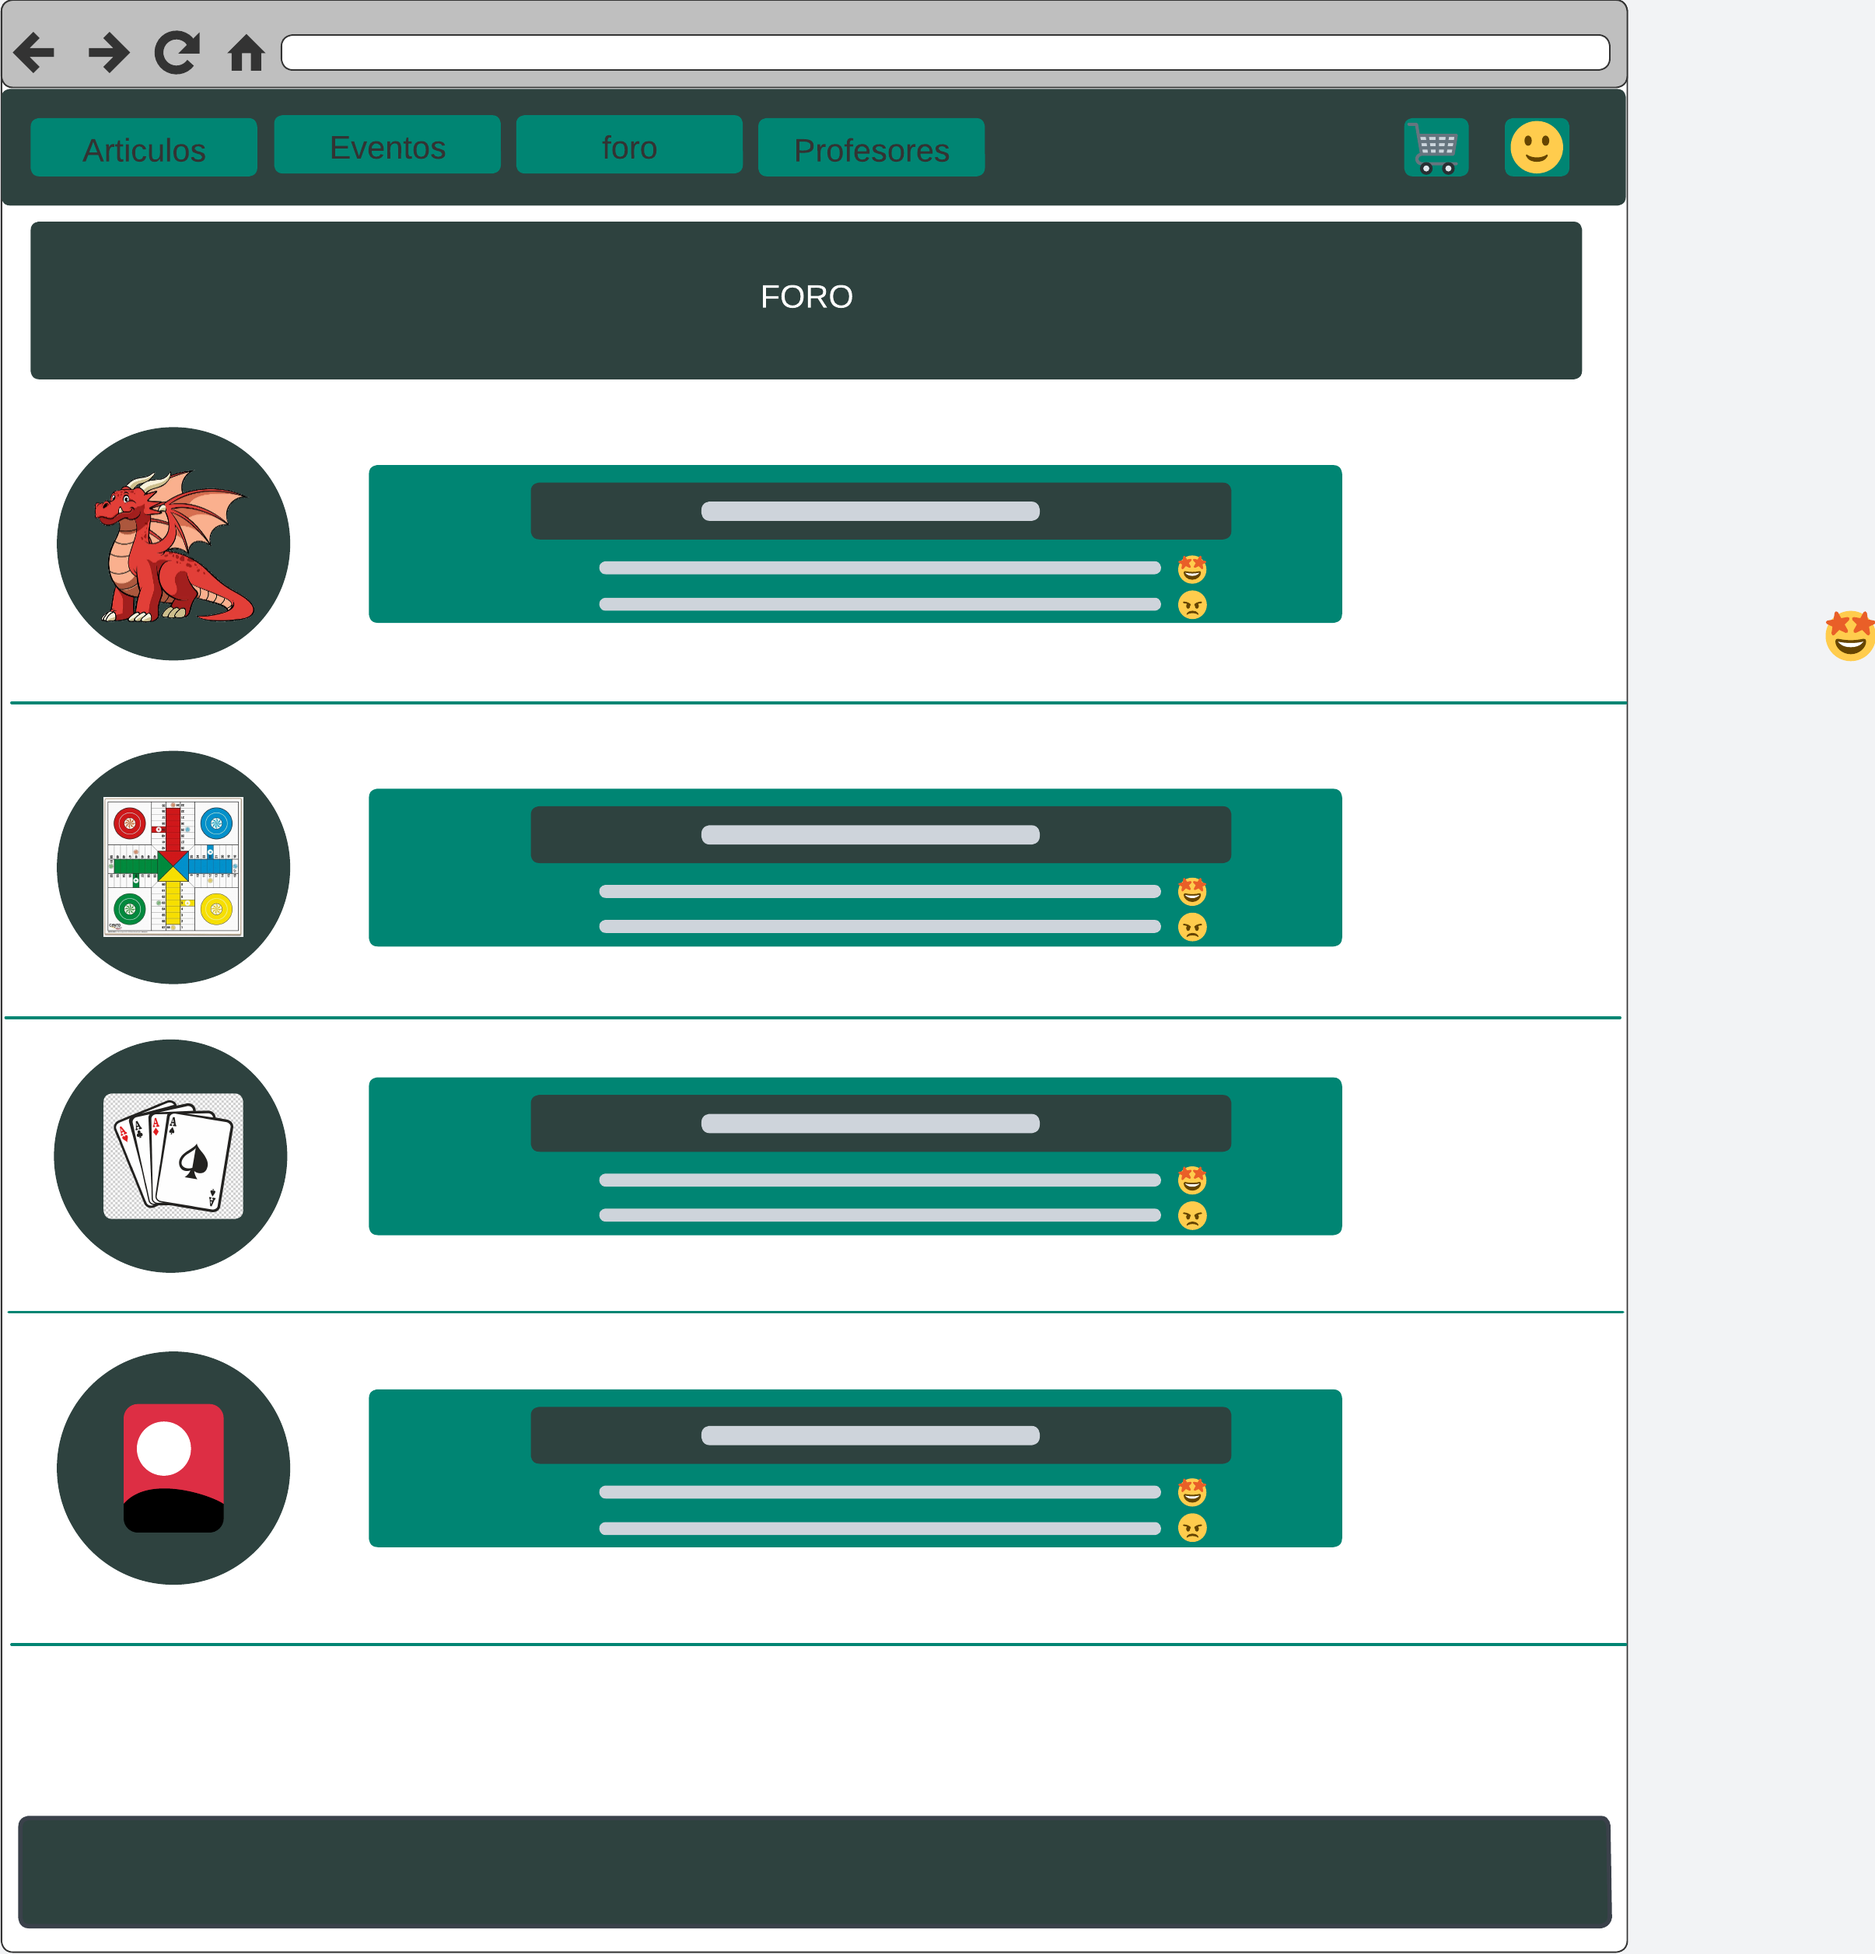
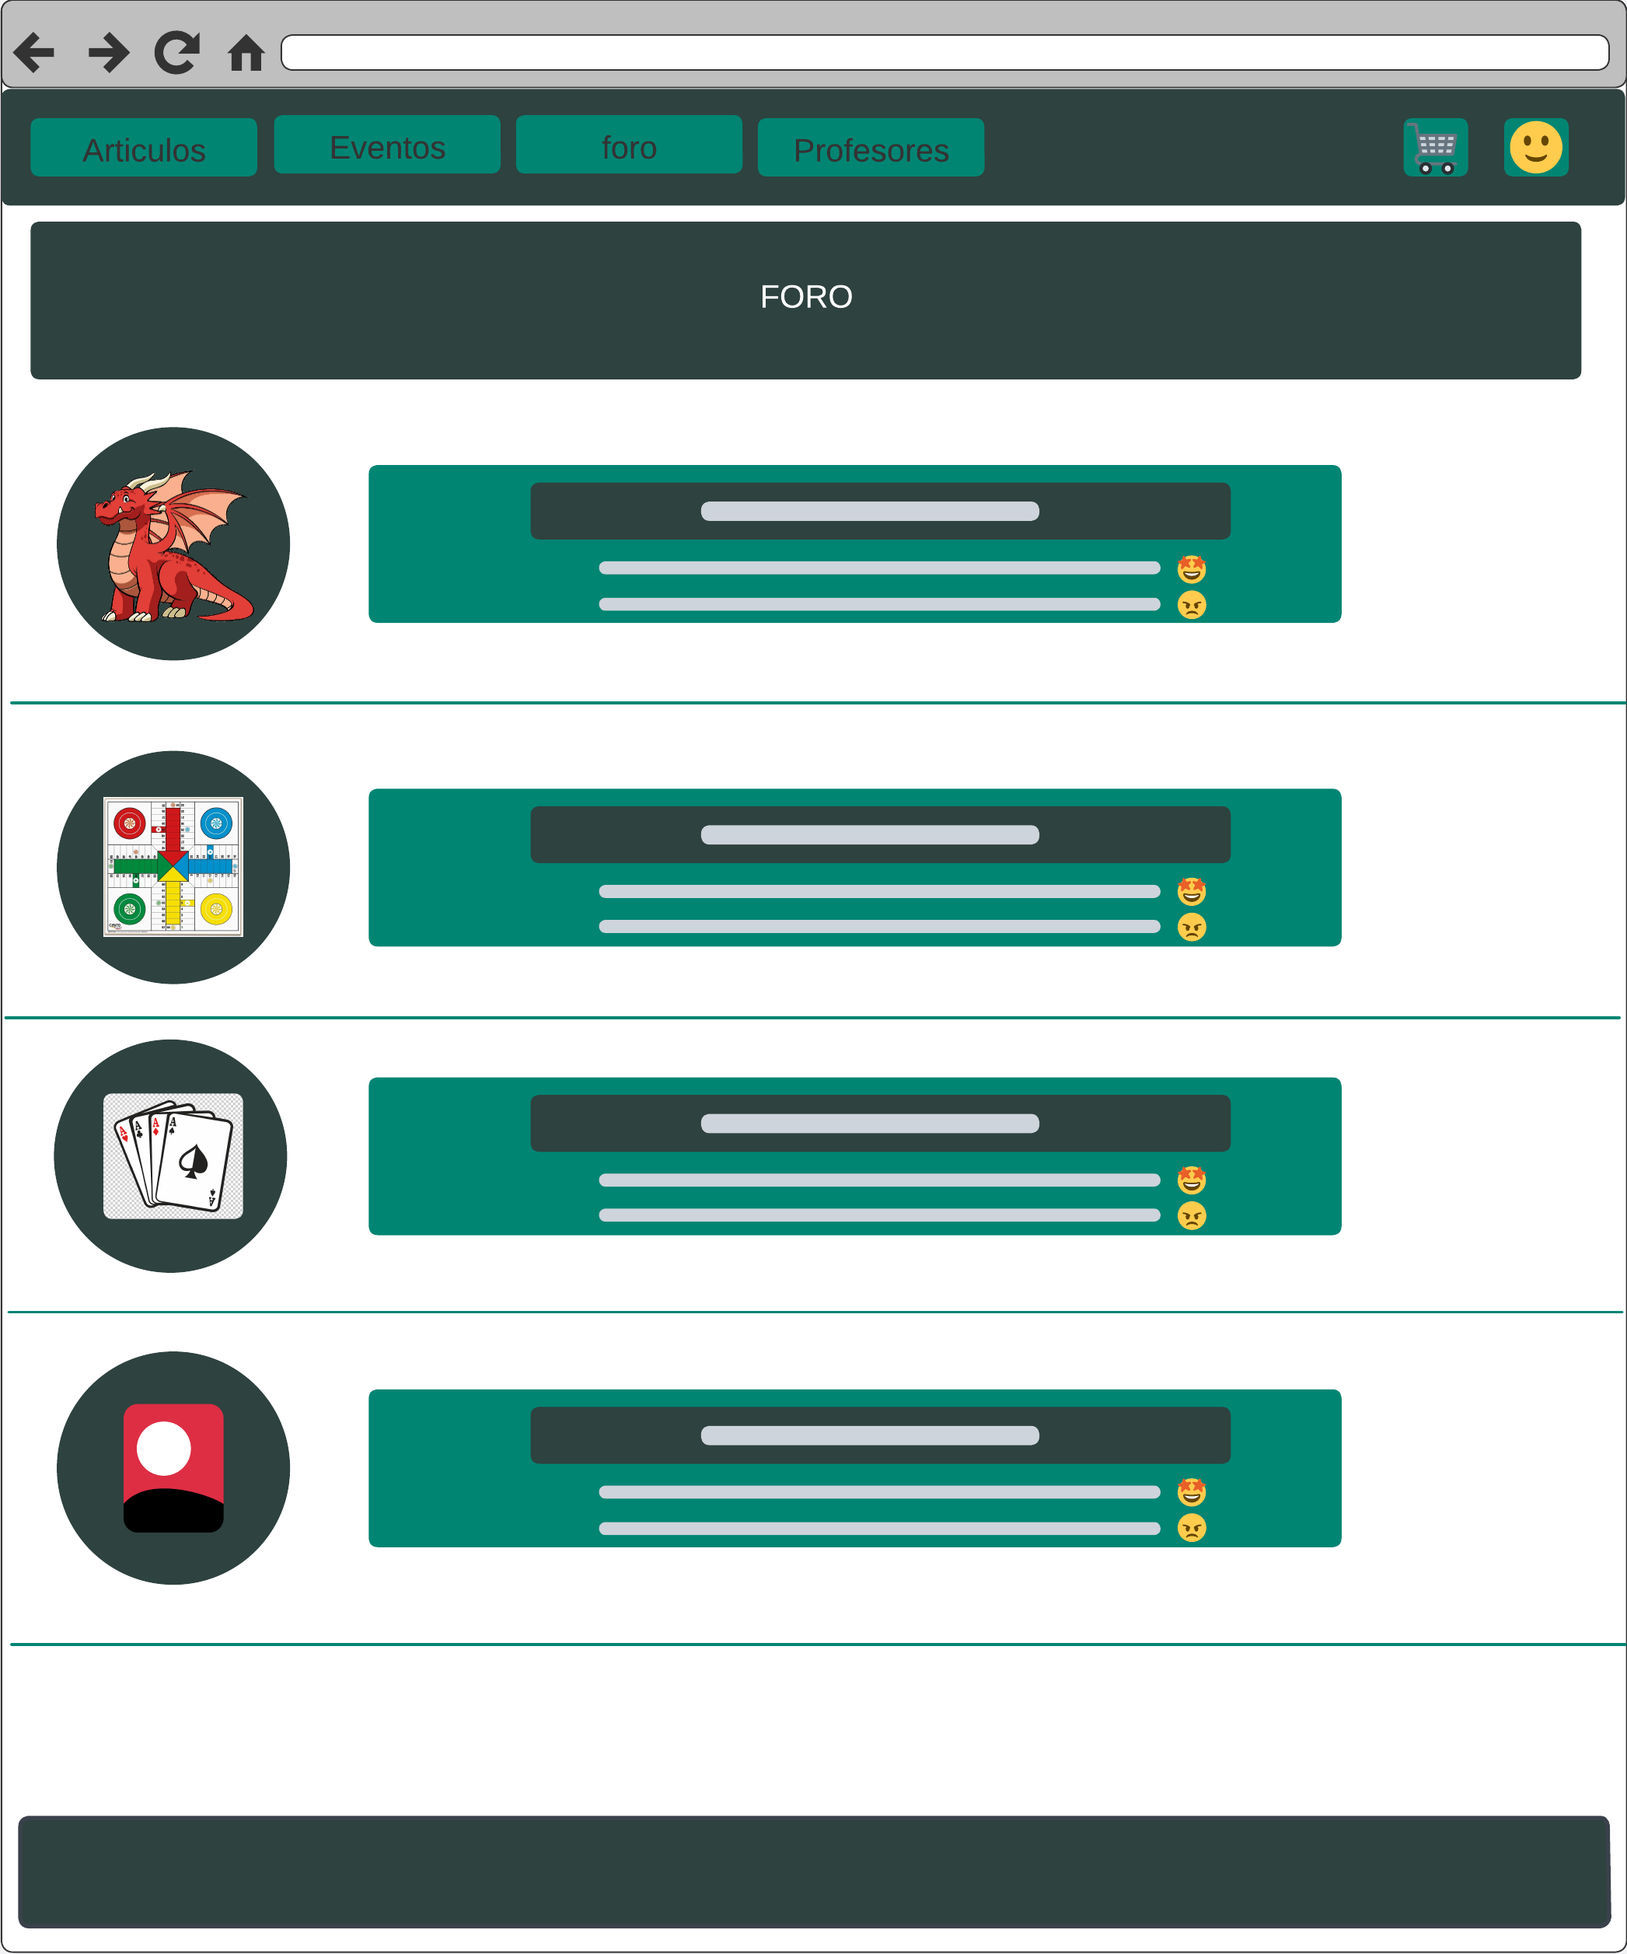
Recolocado y añadido titulos, erratas de bocetos e imagen foro incorrecta

diff --git a/bocetos.html b/bocetos.html
@@ -12,9 +12,10 @@
 </head>
 <body>
     <header>
+        <h1>MesaMaestra</h1>
         <nav>Navegación
             <ul>
-                <li><a href="index.html ">Página Principal</a></li>
+                <li><a href="index.html">Página Principal</a></li>
                 <li><a href="detalles.html">Detalles</a></li>
                 <li><a href="bocetos.html">Bocetos</a></li>
                 <li><a href="miembros.html">Miembros</a></li>
@@ -22,67 +23,124 @@
                 <li><a href="contacto.html">Contacto</a></li>
             </ul>
         </nav>
+
+        <nav>Páginas
+            <ul>
+                <li><a href="#pagina_principal">Principal</a></li>
+                <li><a href="#pagina_articulos">Artículos</a></li>
+                <li><a href="#pagina_articulo_seleccionado">Artículo seleccionado</a></li>
+                <li><a href="#pagina_torneos">Torneos</a></li>
+                <li><a href="#pagina_carrito">Carrito</a></li>
+                <li><a href="#pagina_amigos">Amigos</a></li>
+                <li><a href="#pagina_chat">Chat</a></li>
+                <li><a href="#pagina_registro">Registro</a></li>
+                <li><a href="#pagina_profesores">Profesores</a></li>
+                <li><a href="#pagina_foro">Foro</a></li>
+            </ul>
+        </nav>
+
     </header>
     
     <main>
-        <h1>MesaMaestra</h1>
-        <h2>Página principal</h2>
-        <img src="resources/imagenes/intro.png " width="400" title="Pagina inicio">
-        <p>La página principal contendrá una cabecera con las distintas opciones. Por otro lado en "Eventos Destacados"
-            nos aparecerán todos las competiciones actuales que están disponibles.
-            "Comentarios Destacados" son los comentarios del foro más virales.
-            "Artículos Destacados" serán los artículos más vendidos y con mejor valoración.
-            Si seleccionamos Artículos sale la siguiente página:
-        </p>
-        <h2>Artículos</h2>
-        <img src="resources/imagenes/articulos.png " width="400" title="Pagina articulos">
-        <p>Aparecen todos los artículos disponibles. Y una opción de ofertas donde salen todos los artículos rebajados.
-            Se puede realizar la búsqueda a través de la barra de búsqueda y se filtrarán por lo buscado.
-            Si selecciona uno sale la siguiente pantalla:
-        </p>
-        <h2>Artículo seleccionado</h2>
-        <img src="resources/imagenes/tienda.png " width="400" title="Pagina tienda">
-        <p>Donde aparece el artículo seleccionado, junto con su precio, reseñas, descripción y una valoración media de los clientes
-            Se puede seleccionar la cantidad que queramos y esté disponible y añadirlo al carrito.
-        </p>
-    
-        <h2>Torneos</h2>
-        <img src="resources/imagenes/torneos.png " width="400" title="Pagina Torneos">
-        <p>En esta sección se visualiza los distintos eventos que se van a realizar junto
-            con el juego de mesa que se jugará. Además el usuario puede inscribirse en ellos para participar
-        </p>
-        <h2>Carrito</h2>
-        <img src="resources/imagenes/carrito.png " width="400" title="Pagina Carrito">
-        <p>En esta pestaña aparecerán todos los artículos que el usuario tiene añadidos a la cesta, pudiendo
-            incrementar en sí la cantidad o eliminar el artículo. Al final de la página estará la 
-            opción "Tramitir pedido" con la cual podremos llevar a cabo la compra de todos los artículos que estén
-            en la cesta y tengan stock.
-        </p>
-        <h2>Amigos</h2>
-        <img src="resources/imagenes/amigos.png " width="400" title="Pagina Amigos">
-        <p>En la sección amigos serán visibles todos los usuarios con los que estableces comunicación, dando
-            click sobre uno de ellos aparece la siguiente pantalla:
-    
-        </p>
-        <h2>Chat</h2>
-        <img src="resources/imagenes/chat.png " width="400" title="Pagina Chat">
-        <p>Donde aparece la comunicación en grande para poder enviar mensajes con el usuario seleccionado.
-        </p>
-        <h2>Registro</h2>
-        <img src="resources/imagenes/registro.png " width="400" title="Pagina Chat">
-        <p>Para registrarse el usuario por primera vez deberá insertar su numbre, correo electrónico y una 
-            cotraseña que cumpla con las condiciones. Si el usuario ya está registrado dará a login e iniciará
-            sesión con sus credenciales.
-        </p>
-        <h2>Profesores</h2>
-        <img src="resources/imagenes/profesores.png " width="400" title="Pagina Chat">
-        <p>Zona donde los profesores pueden publicitarse y poder ser contactados por alumnos.
-            Recibirán valoraciones medias de aquellos alumnos que le contrataron.
-        </p>
-        <h2>Foro</h2>
-        <img src="resources/imagenes/foro.png " width="400" title="Pagina Chat">
-        <p>Zona pública donde aparecerán todos los comentarios por orden de interacciones.
-        </p>
+
+        <article id="pagina_principal">
+
+            <h2>Página principal</h2>
+            <img src="resources/imagenes/intro.png " width="400" title="Pagina inicio">
+            <p>La página principal contendrá una cabecera con las distintas opciones. Por otro lado en "Eventos Destacados"
+                nos aparecerán todos las competiciones actuales que están disponibles.
+                "Comentarios Destacados" son los comentarios del foro más virales.
+                "Artículos Destacados" serán los artículos más vendidos y con mejor valoración.
+                Si seleccionamos Artículos sale la siguiente página:
+            </p>
+        </article>
+
+        <article id="pagina_articulos">
+
+            <h2>Artículos</h2>
+            <img src="resources/imagenes/articulos.png " width="400" title="Pagina articulos">
+            <p>Aparecen todos los artículos disponibles. Y una opción de ofertas donde salen todos los artículos rebajados.
+                Se puede realizar la búsqueda a través de la barra de búsqueda y se filtrarán por lo buscado.
+                Si selecciona uno sale la siguiente pantalla:
+            </p>
+        </article>
+
+        <article id="pagina_articulo_seleccionado">
+
+            <h2>Artículo seleccionado</h2>
+            <img src="resources/imagenes/tienda.png " width="400" title="Pagina tienda">
+            <p>Donde aparece el artículo seleccionado, junto con su precio, reseñas, descripción y una valoración media de los clientes
+                Se puede seleccionar la cantidad que queramos y esté disponible y añadirlo al carrito.
+            </p>
+        </article>
+            
+        <article id="pagina_torneos">
+
+            <h2>Torneos</h2>
+            <img src="resources/imagenes/torneos.png " width="400" title="Pagina Torneos">
+            <p>En esta sección se visualiza los distintos eventos que se van a realizar junto
+                con el juego de mesa que se jugará. Además el usuario puede inscribirse en ellos para participar
+            </p>
+        </article>
+            
+        <article id="pagina_carrito">
+
+            <h2>Carrito</h2>
+            <img src="resources/imagenes/carrito.png " width="400" title="Pagina Carrito">
+            <p>En esta pestaña aparecerán todos los artículos que el usuario tiene añadidos a la cesta, pudiendo
+                incrementar en sí la cantidad o eliminar el artículo. Al final de la página estará la 
+                opción "Tramitir pedido" con la cual podremos llevar a cabo la compra de todos los artículos que estén
+                en la cesta y tengan stock.
+            </p>
+        </article>
+
+        <article id="pagina_amigos">
+
+            <h2>Amigos</h2>
+            <img src="resources/imagenes/amigos.png " width="400" title="Pagina Amigos">
+            <p>En la sección amigos serán visibles todos los usuarios con los que estableces comunicación, dando
+                click sobre uno de ellos aparece la siguiente pantalla:
+            </p>
+        </article>
+
+        <article id="pagina_chat">
+
+            
+            <h2>Chat</h2>
+            <img src="resources/imagenes/chat.png " width="400" title="Pagina Chat">
+            <p>Donde aparece la comunicación en grande para poder enviar mensajes con el usuario seleccionado.
+            </p>
+        </article>
+
+        <article id="pagina_registro">
+
+            <h2>Registro</h2>
+            <img src="resources/imagenes/registro.png " width="400" title="Pagina Registro">
+            <p>Para registrarse el usuario por primera vez deberá insertar su numbre, correo electrónico y una 
+                cotraseña que cumpla con las condiciones. Si el usuario ya está registrado dará a login e iniciará
+                sesión con sus credenciales.
+            </p>
+        </article>
+
+        <article id="pagina_profesores">
+
+            <h2>Profesores</h2>
+            <img src="resources/imagenes/profesores.png " width="400" title="Pagina Profesores">
+            <p>Zona donde los profesores pueden publicitarse y poder ser contactados por alumnos.
+                Estos reciben valoraciones medias a partir del feedback de aquellos alumnos que losl contrataron.
+            </p>
+        </article>
+
+        <article id="pagina_foro">
+
+            <h2>Foro</h2>
+            <img src="resources/imagenes/foro.png " width="400" title="Pagina Foro">
+            <p>En esta pestaña aparecen los distintos foros que han ido creando los usuarios además de los distintos
+                comentarios en estos. Cualquiera podrá visualizar este contenido pero solo los usuarios reistrados
+                podrán interactuar.
+            </p>
+        </article>
+
     </main>
 </body>
 </html>

diff --git a/index.html b/index.html
@@ -20,6 +20,7 @@
 </head>
 <body>
     <header>
+        <h1>MesaMaestra</h1>
         <nav>Navegación
             <ul>
                 <li><a href="index.html ">Página Principal</a></li>
@@ -33,7 +34,7 @@
     </header>
 
     <main>
-        <h1>MesaMaestra</h1>
+        <h2>Introducción</h2>
         <p>Somos una página de venta de productos de juegos de mesa, esta es una actividad en auge en los últimos años.</p>
         <p>Además queremos ser un punto de encuentro para los amantes de las competiciones de juegos de mesa, para ello
         hemos analizado las necesidades de los jugadores.</p>

diff --git a/contacto.html b/contacto.html
@@ -14,6 +14,7 @@
 <body>
     
     <header>
+        <h1>Contacto</h1>
         <nav>Navegación
             <ul>
                 <li><a href="index.html ">Página Principal</a></li>
@@ -27,7 +28,7 @@
     </header>
     
     <main>
-        <h1>Formulario de Contacto</h1>
+        <h2>Formulario de Contacto</h2>
         <form action="mailto:elcorreoquequieres@correo.com">
             <p>
                 <label for="nombre">Nombre:</label>

diff --git a/planificacion.html b/planificacion.html
@@ -11,6 +11,7 @@
 </head>
 <body>
     <header>
+        <h1>Planificación</h1>
         <nav>Navegación
             <ul>
                 <li><a href="index.html ">Página Principal</a></li>
@@ -86,8 +87,6 @@
                 </tr>
             </tbody>
         </table>
-    
-       
     </main>
 
 </body>

diff --git a/detalles.html b/detalles.html
@@ -10,6 +10,7 @@
 </head>
 <body>
   <header>
+    <h1>Detalles</h1>
     <nav>Navegación
       <ul>
           <li><a href="index.html ">Página Principal</a></li>

diff --git a/estilos.css b/estilos.css
@@ -1,4 +1,3 @@
-/* Estilo para elementos con la clase 'texto-negrita' */
 .texto-negrita {
     font-weight: bold;
 }
